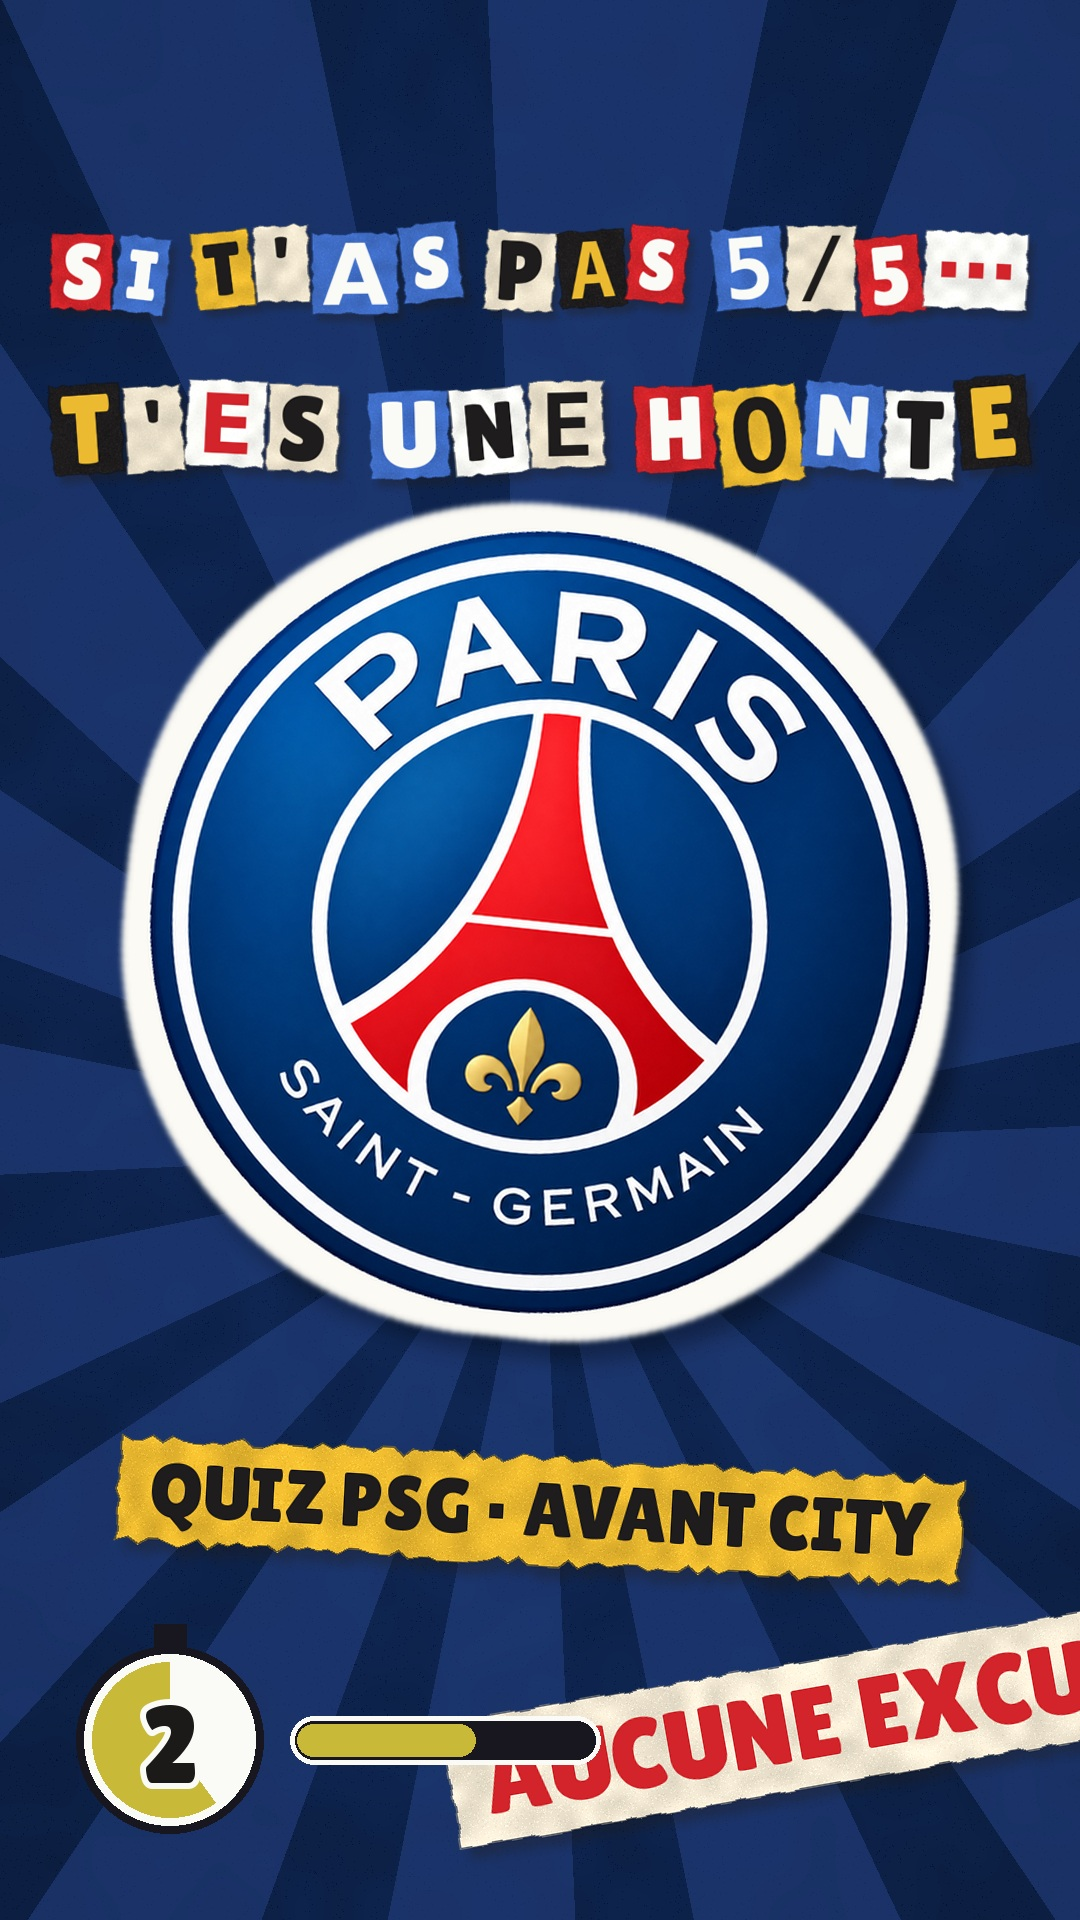
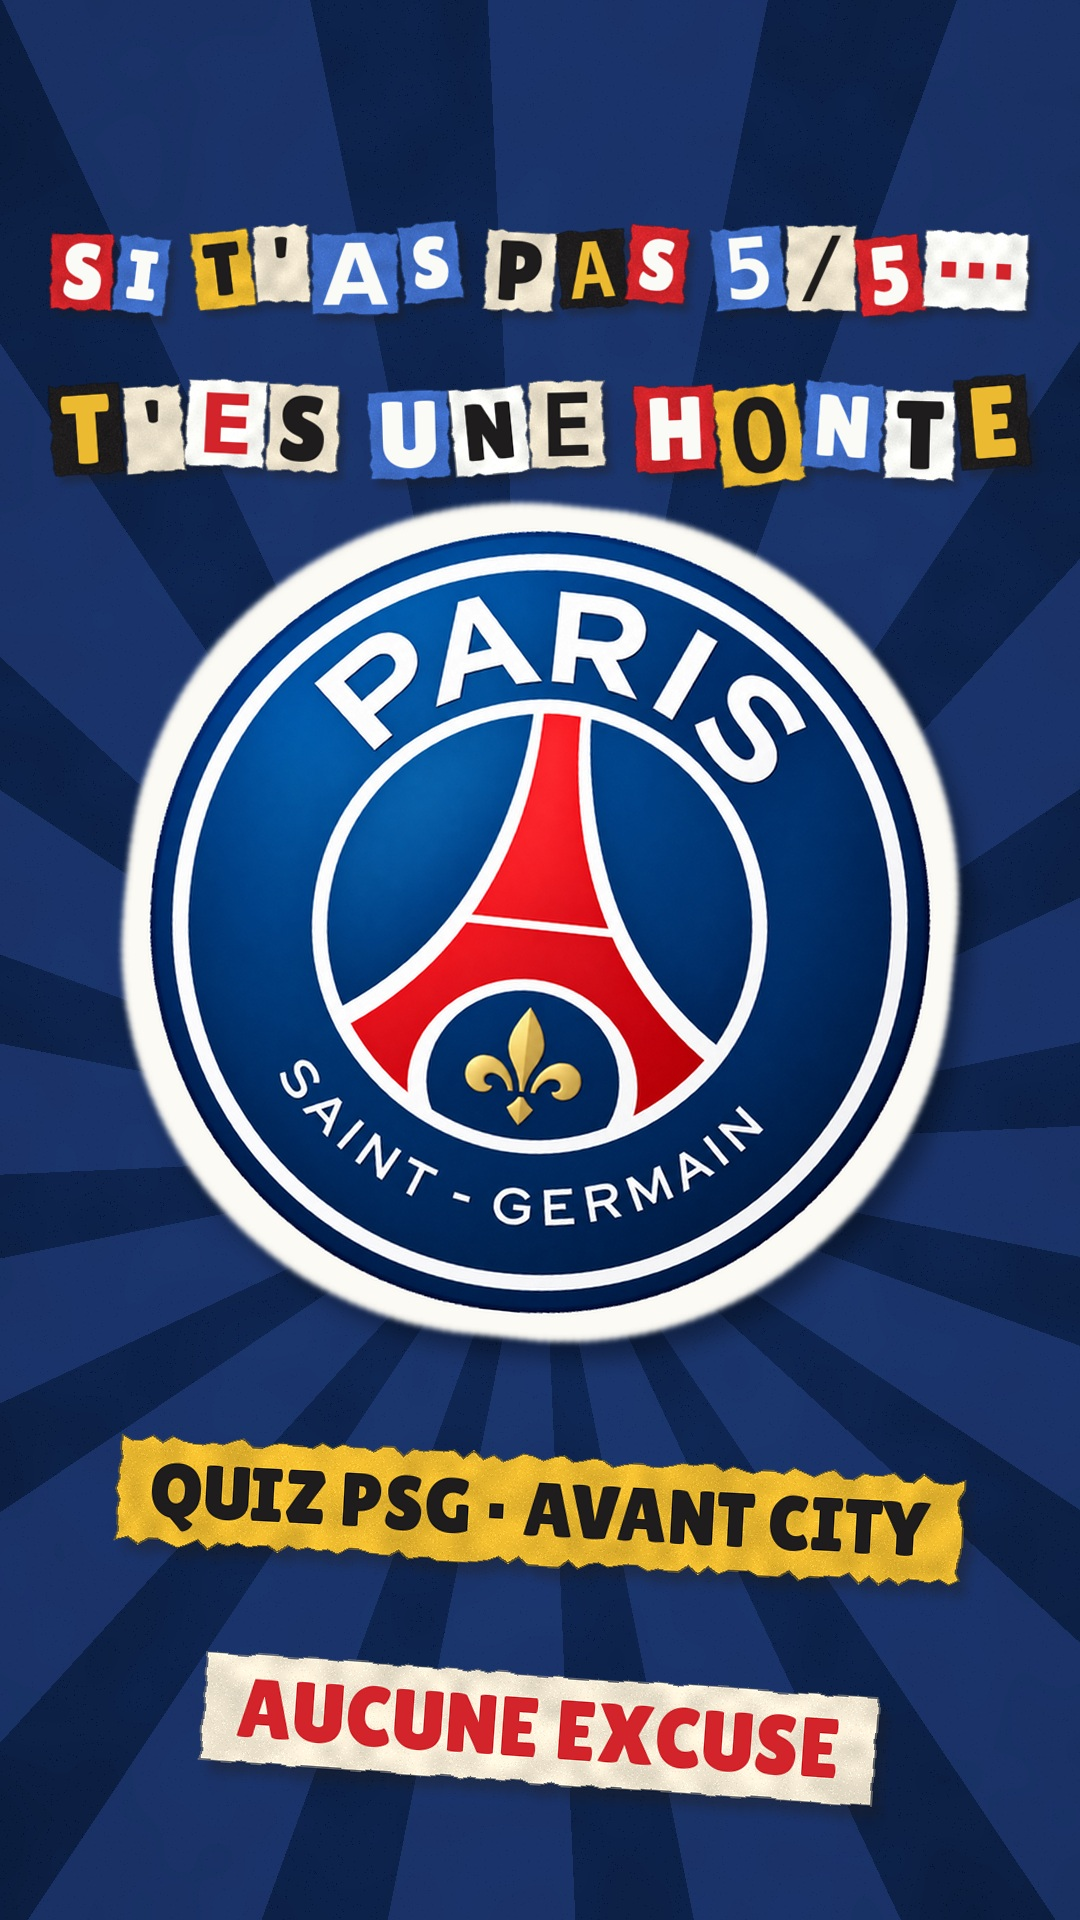
Couvertures quiz courts : plus de superposition
Claude-Session: https://claude.ai/code/session_01DXpnpJ9jwFkxmTPwukopFs

Changed region(s): [[0.0611, 0.8125, 1.0, 0.9688]]

diff --git a/episodes/quiz_france1/quiz_france1_court.py b/episodes/quiz_france1/quiz_france1_court.py
@@ -179,8 +179,7 @@ def cover(path):
     ransom_line(cv, "SI T'AS PAS 5/5…", 270, 124, seed=3); ransom_line(cv, "T'ES UNE HONTE", 430, 136, seed=11)
     logo_hero(cv, 0, 1.0, CX - 120, 1400, 1.45)
     Label("5 QUESTIONS · 3 SECONDES", "qzfrcv1", font("title", 76), NOIR, GOLD, padx=30, pady=8, rough=5).draw(cv, 0, CX, 1510, 1, -3)
-    STAMP("AUCUNE EXCUSE", "qzfrcv2", ROUGE, 100).draw(cv, 0, 840, 1720, 1, 10)
-    chrono(cv, 0, CHRONO*.4 + 1.0, 1.0, y=1740, cx=170, x0=290, x1=600)
+    STAMP("AUCUNE EXCUSE", "qzfrcv2", ROUGE, 84).draw(cv, 0, CX, 1730, 1, -4)
     finish(cv, TITLE); cv.convert("RGB").save(path, quality=94); return path
 
 

diff --git a/episodes/quiz_psg_court/quiz_psg_court.py b/episodes/quiz_psg_court/quiz_psg_court.py
@@ -164,8 +164,7 @@ def cover(path):
     ransom_line(cv, "SI T'AS PAS 5/5…", 270, 124, seed=3); ransom_line(cv, "T'ES UNE HONTE", 430, 136, seed=11)
     logo_hero(cv, 0, 1.0, CX - 120, 1400, 1.45)
     Label("QUIZ PSG · AVANT CITY", "qzpccv1", font("title", 76), NOIR, GOLD, padx=30, pady=8, rough=5).draw(cv, 0, CX, 1510, 1, -3)
-    STAMP("AUCUNE EXCUSE", "qzfrcv2", ROUGE, 100).draw(cv, 0, 840, 1720, 1, 10)
-    chrono(cv, 0, CHRONO*.4 + 1.0, 1.0, y=1740, cx=170, x0=290, x1=600)
+    STAMP("AUCUNE EXCUSE", "qzfrcv2", ROUGE, 84).draw(cv, 0, CX, 1730, 1, -4)
     finish(cv, TITLE); cv.convert("RGB").save(path, quality=94); return path
 
 
